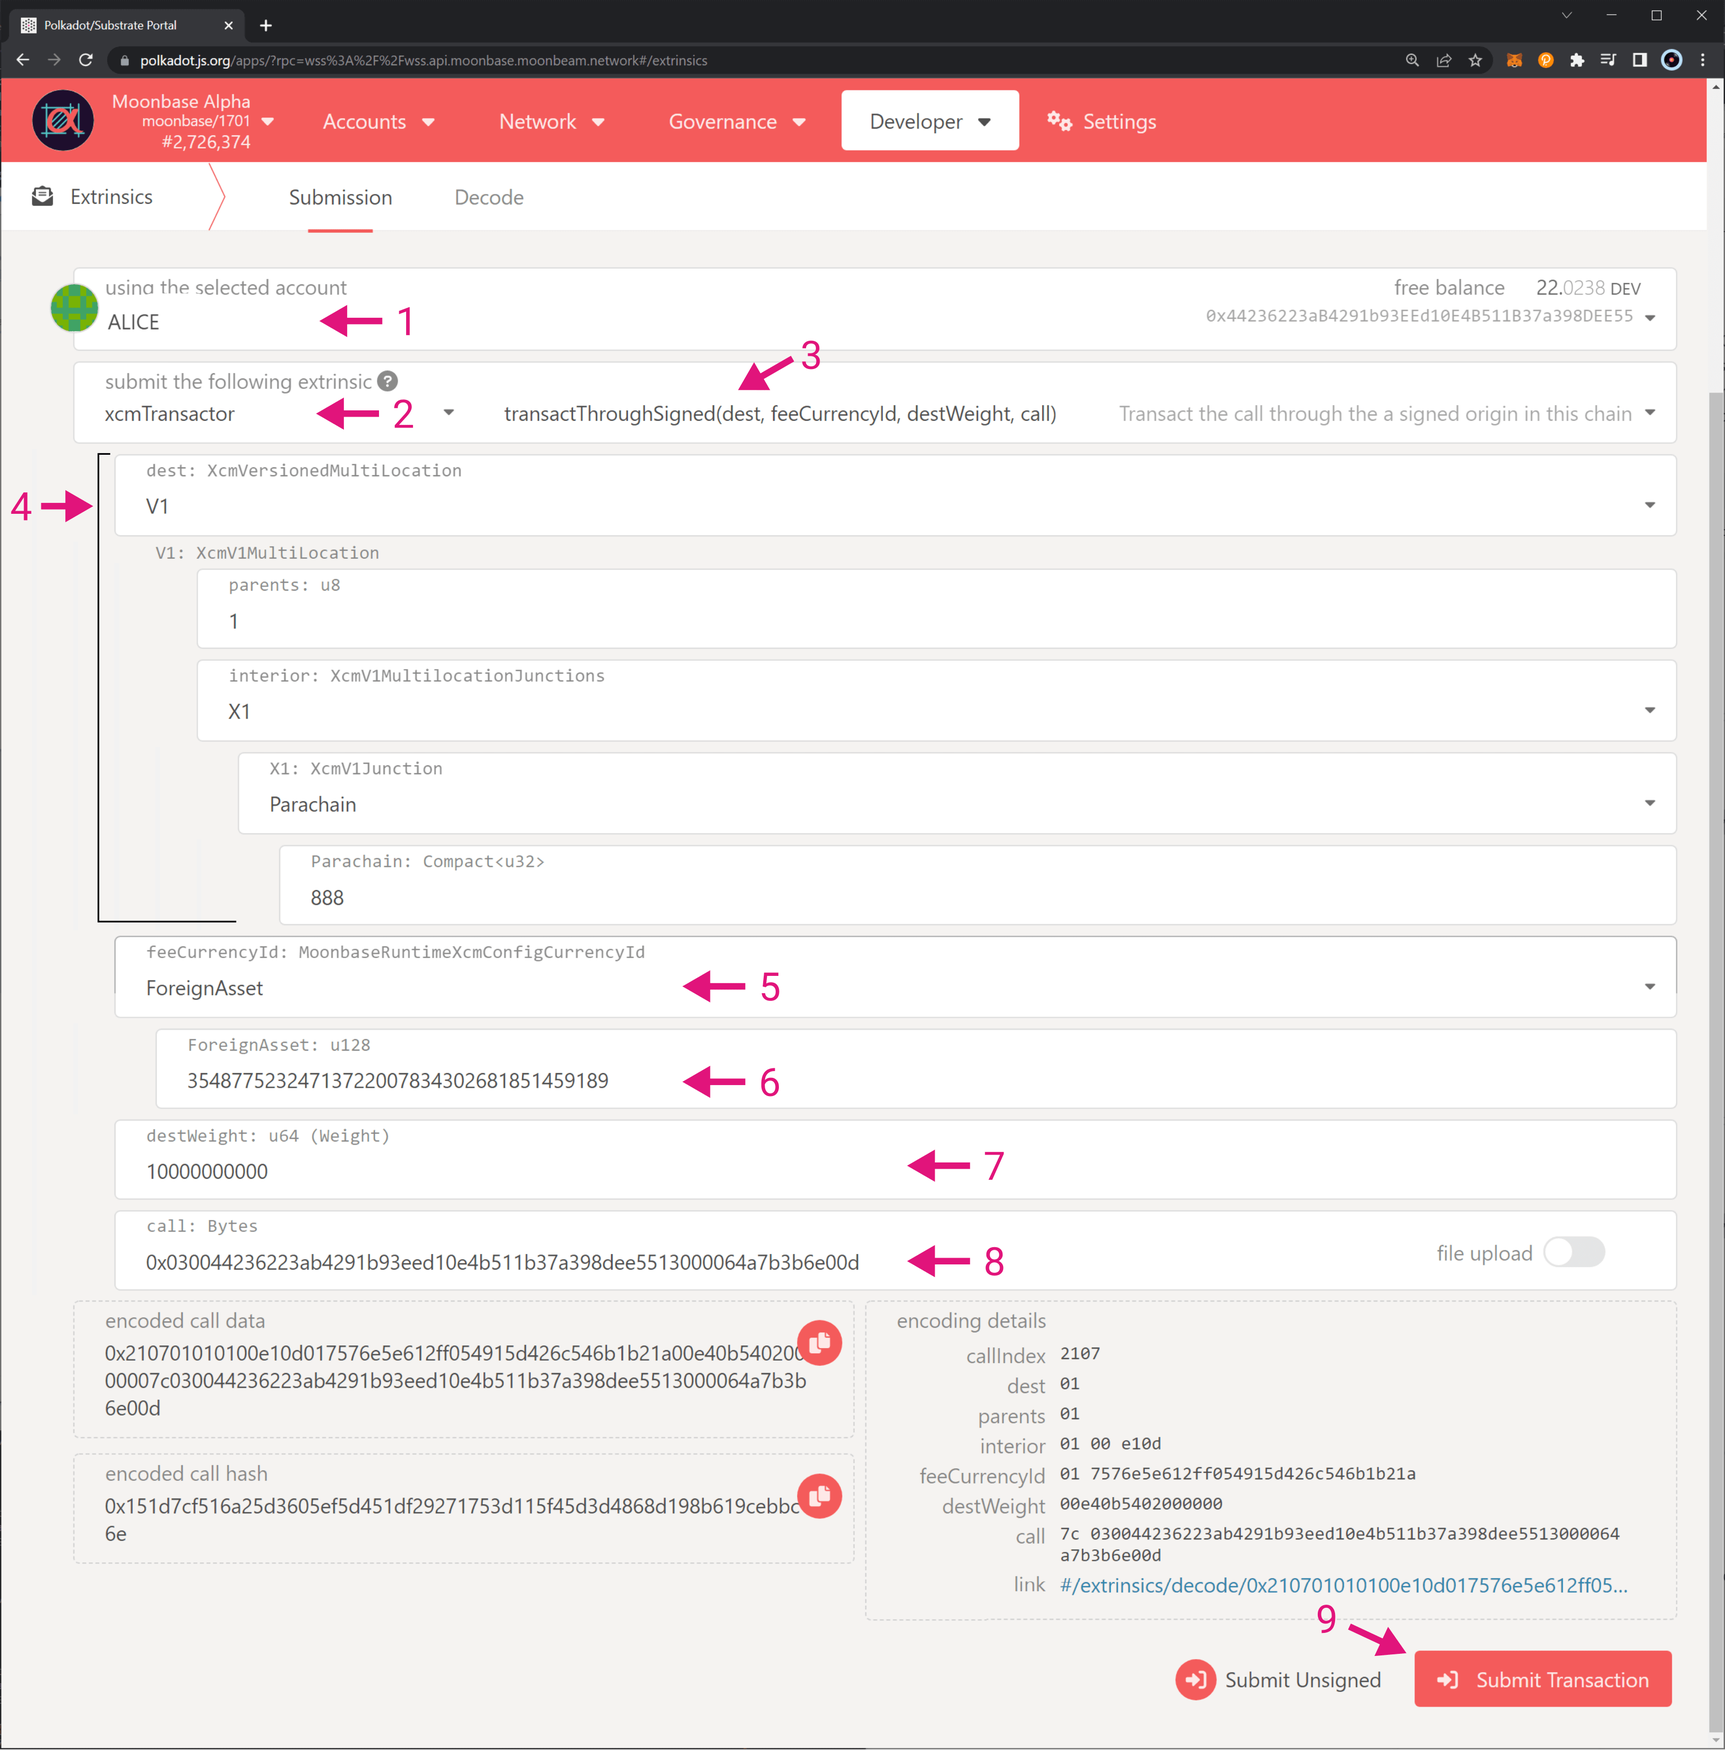
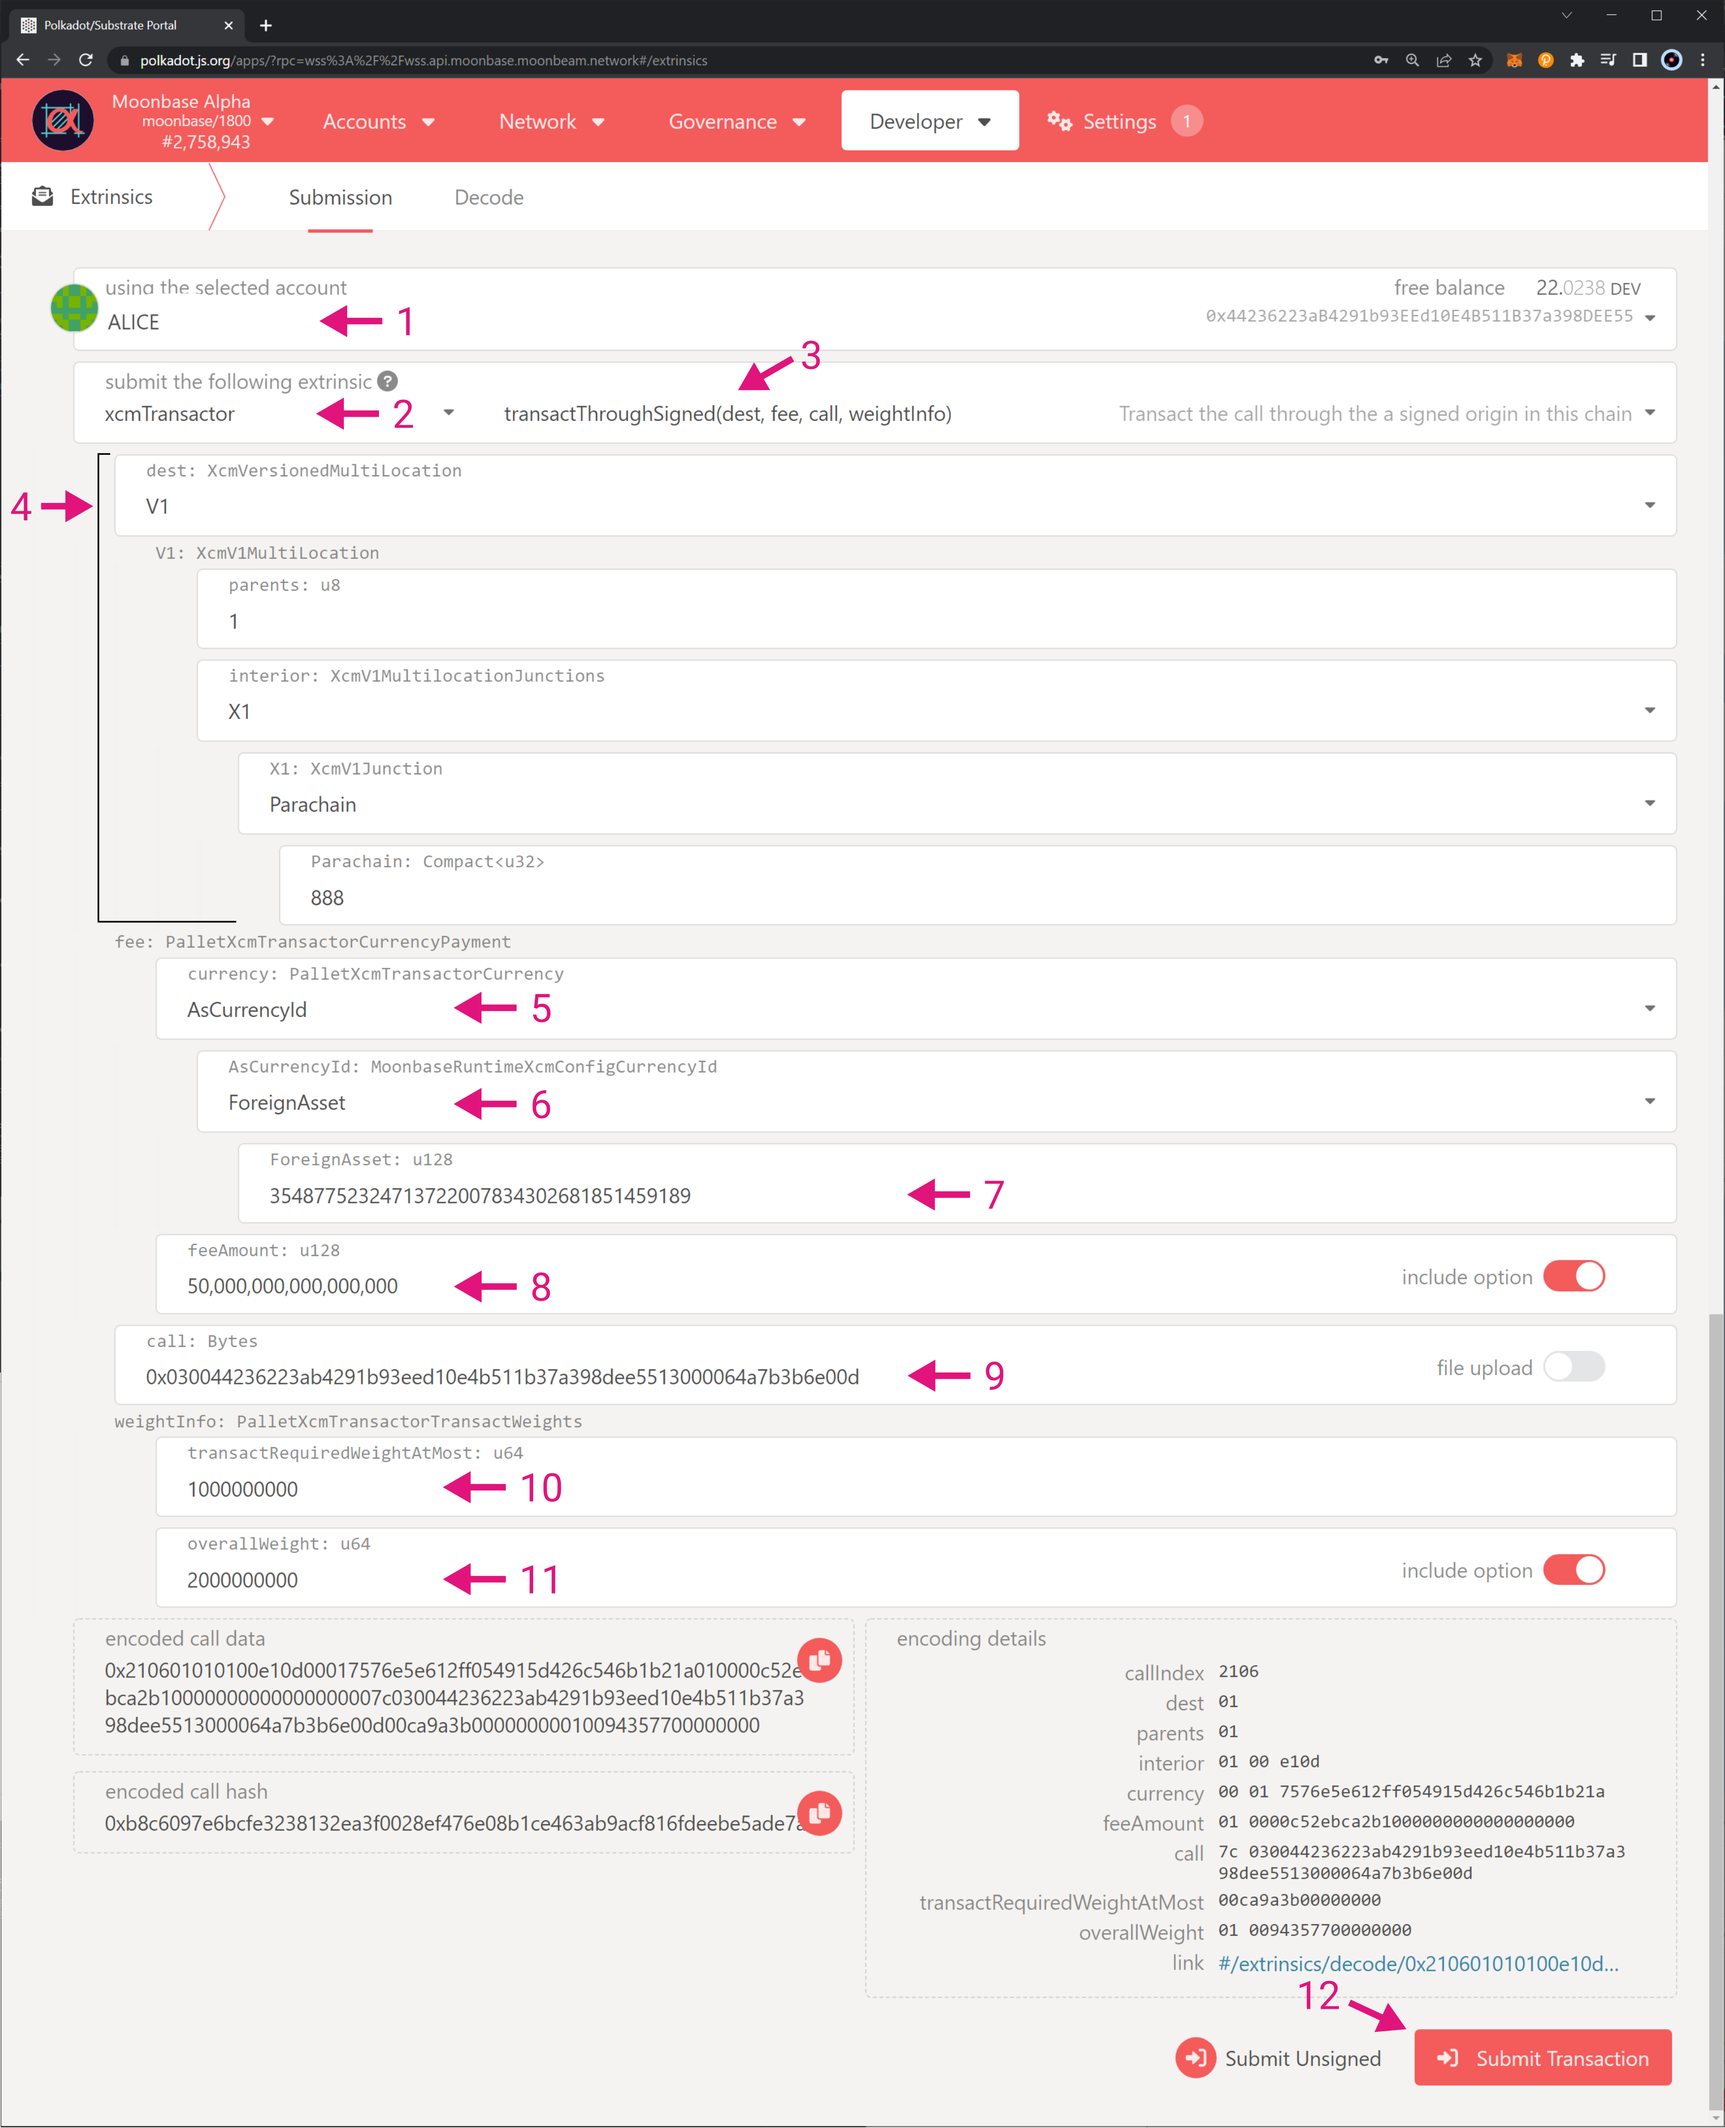
wrapped up extrinsics

diff --git a/builders/xcm/xcm-transactor.md b/builders/xcm/xcm-transactor.md
@@ -96,7 +96,7 @@ The XCM-transactor pallet includes the following read-only functions to obtain p
 
 ## XCM-Transactor Transact Through Derivative {: #xcmtransactor-transact-through-derivative}
 
-This section covers building an XCM message for remote executions using the XCM-transactor pallet, specifically with the `transactThroughDerivative` function. The steps to use the `transactThroughDerivativeMultilocation` function are identical, but instead of the currency ID, you specify a multilocation for the fee token.
+This section covers building an XCM message for remote executions using the XCM-transactor pallet using the `transactThroughDerivative` function.
 
 !!! note
     You need to ensure that the call you are going to execute remotely is allowed in the destination chain!
@@ -132,18 +132,25 @@ If you've [checked the prerequisites](#xcmtransactor-derivative-check-prerequisi
 3. Choose the **transactThroughDerivative** extrinsic
 4. Set the destination to **Relay**, to target the relay chain
 5. Enter the index of the derivative account you've been registered to. For this example, the index value is `42`. Remember that the derivate account depends on the index
-6. Set the currency ID to **ForeignAsset**. This is because you are not transferring DEV tokens (*SelfReserve*)
-7. Enter the asset ID. For this example, `xcUNIT` has an asset id of `42259045809535163221576417993425387648`. You can check all available assets IDs in the [XC-20 address section](/builders/xcm/xc20/overview/#current-xc20-assets){target=_blank} 
-8. Set the destination weight. The value must include the `asDerivative` extrinsic as well. However, the weight of the XCM instructions is added by the XCM-transactor pallet. For this example, `1000000000` is enough
[1 lines of base64/hex data omitted]
-10. Click the **Submit Transaction** button and sign the transaction
+6. Select the **fee** type. For this example, set it to **AsCurrencyId**
+7. Select **ForeignAsset** as the currency ID. This is because you are not transferring DEV tokens (*SelfReserve*), but interacting with an XC-20
+8. Enter the asset ID. For this example, `xcUNIT` has an asset id of `42259045809535163221576417993425387648`. You can check all available assets IDs in the [XC-20 address section](/builders/xcm/xc20/overview/#current-xc20-assets){target=_blank}
+9. (Optional) Set the **feeAmount**. This is the units per second, of the selected fee token (XC-20), that will be burned to free up the corresponding balance in the sovereign account on the destination chain. For this example, it was set to `13764626000000` units per second. If you do not provide this value, the pallet will use the element in storage (if exists)
[1 lines of base64/hex data omitted]
+11. Set the **transactRequiredWeightAtMost** weight value of the **weightInfo** struct. The value must include the `asDerivative` extrinsic as well. However, this does not include the weight of the XCM instructions. For this example, `1000000000` weight units are enough
+12. (Optional) Set the **overallWeight** weight value of the **weightInfo** struct. The value must be the total of **transactRequiredWeightAtMost** plus the weight needed to cover the XCM instructions execution costs in the destination chain. If you do not provide this value, the pallet will use the element in storage (if exists), and add it to **transactRequiredWeightAtMost**. For this example, `2000000000` weight units are enough
+13. Click the **Submit Transaction** button and sign the transaction
 
 !!! note
[1 lines of base64/hex data omitted]
+    The encoded call data for the extrinsic configured above is 
[1 lines of base64/hex data omitted]
 
 ![XCM-Transactor Transact Through Derivative Extrinsic](/images/builders/xcm/xcm-transactor/xcmtransactor-1.png)
 
-Once the transaction is processed, you can check the relevant extrinsics and events in [Moonbase Alpha](https://polkadot.js.org/apps/?rpc=wss%3A%2F%2Fwss.api.moonbase.moonbeam.network#/explorer/query/0x14cebfb2b4a4c0bf72cb2562344e6803263f45491d2ab14e7b91115ebd52e706){target=_blank} and the [relay chain](https://polkadot.js.org/apps/?rpc=wss%3A%2F%2Ffrag-moonbase-relay-rpc-ws.g.moonbase.moonbeam.network#/explorer/query/0x630456e6578d5b414db2e83486a6961ff90dc06bf979988b370dcb0e57550e41){target=_blank}. Note that, in Moonbase Alpha, there is an event associated with the `transactThroughDerivative` method, but also some `xcUNIT` tokens are burned to repay the sovereign account for the transactions fees. In the relay chain, the `paraInherent.enter` extrinsic shows a `balance.Transfer` event, where 1 `UNIT` token is transferred to Alice's address. Still, the transaction fees are paid by the Moonbase Alpha sovereign account.
+Once the transaction is processed, you can check the relevant extrinsics and events in [Moonbase Alpha](https://polkadot.js.org/apps/?rpc=wss%3A%2F%2Fwss.api.moonbase.moonbeam.network#/explorer/query/0xa90b23a54f2bb691ba2f04ae3228b1de2d2e7231b98490bf6f94e491baf09185){target=_blank} and the [relay chain](https://polkadot.js.org/apps/?rpc=wss%3A%2F%2Ffrag-moonbase-relay-rpc-ws.g.moonbase.moonbeam.network#/explorer/query/0xb5a0ecc0c2f7f1363ede2e3aebab2702dd2e7b9036a6ba23a694db2b4002cd7f){target=_blank}. Note that, in Moonbase Alpha, there is an event associated with the `transactThroughDerivative` method, but also some `xcUNIT` tokens are burned to repay the sovereign account for the transactions fees. In the relay chain, the `paraInherent.enter` extrinsic shows a `balance.Transfer` event, where 1 `UNIT` token is transferred to Alice's address. Still, the transaction fees are paid by the Moonbase Alpha sovereign account.
+
+!!! note
+    The `AssetsTrapped` event on the relay chain is because the XCM-transactor pallet does not handle refunds yet. Therefore, overestimating weight will result in assets being trapped when the XCM is executed in the destination chain.
 
 ### Retrieve Registered Derivative Indexes
 
@@ -160,7 +167,7 @@ To fetch a list of all registered addresses allowed to operate through the Moonb
 
 ## XCM-Transactor Transact Through Signed {: #xcmtransactor-transact-through-signed}
 
-This section covers building an XCM message for remote executions using the XCM-transactor pallet, specifically with the `transactThroughSigned` function. The steps to use the `transactThroughSignedMultilocation` function are identical, but instead of the currency ID, you specify a multilocation for the fee token. However, you'll not be able to follow along as the destination parachain is not publicly available.
+This section covers building an XCM message for remote executions using the XCM-transactor pallet, specifically with the `transactThroughSigned` function. However, you'll not be able to follow along as the destination parachain is not publicly available.
 
 !!! note
     You need to ensure that the call you are going to execute remotely is allowed in the destination chain!
@@ -194,14 +201,17 @@ If you've [checked the prerequisites](#xcmtransactor-signed-check-prerequisites)
     |    X1     |  Parachain  |
     | Parachain | ParachainID |
 
-5. Set the fee currency ID to **ForeignAsset**. Note that this is the token that will be withdrawn from the multilocation-derivative account to pay for XCM execution fees. In this case, the native reserve token of the destination chain is being used, but it can be any other token as long as it is accepted as XCM execution fee token
-6. Enter the asset ID. For this example, the XC-20 token has an asset id of `35487752324713722007834302681851459189`. You can check all available assets IDs in the [assets section](https://polkadot.js.org/apps/?rpc=wss%3A%2F%2Fwss.api.moonbase.moonbeam.network#/assets){target=_blank} of Polkadot.js Apps
-7. Set the destination weight used to execute the remote call. However, the weight of the XCM instructions is added by the XCM-transactor pallet. For this example, `1000000000` is enough
[1 lines of base64/hex data omitted]
-9. Click the **Submit Transaction** button and sign the transaction
+5. Select the **fee** type. For this example, set it to **AsCurrencyId** 
+6. Set the currency ID to **ForeignAsset**. Note that this is the token that will be withdrawn from the multilocation-derivative account to pay for XCM execution fees. In this case, the native reserve token of the destination chain is being used, but it can be any other token as long as it is accepted as XCM execution fee token
+7. Enter the asset ID. For this example, the XC-20 token has an asset id of `35487752324713722007834302681851459189`. You can check all available assets IDs in the [assets section](https://polkadot.js.org/apps/?rpc=wss%3A%2F%2Fwss.api.moonbase.moonbeam.network#/assets){target=_blank} of Polkadot.js Apps
+8. (Optional) Set the **feeAmount**. This is the units per second, of the selected fee token (XC-20), that will be withdrawn from the multilocation-derivative account to pay for XCM execution fees. For this example, it was set to `50000000000000000` units per second. If you do not provide this value, the pallet will use the element in storage (if exists). Note that the element in storage might not be up to date
[1 lines of base64/hex data omitted]
+10. Set the **transactRequiredWeightAtMost** weight value of the **weightInfo** struct. This does not include the weight of the XCM instructions. For this example, `1000000000` is enough
+11. (Optional) Set the **overallWeight** weight value of the **weightInfo** struct. The value must be the total of **transactRequiredWeightAtMost** plus the weight needed to cover the XCM instructions execution costs in the destination chain. If you do not provide this value, the pallet will use the element in storage (if exists), and add it to **transactRequiredWeightAtMost**. For this example, `2000000000` weight units are enough
+12. Click the **Submit Transaction** button and sign the transaction
 
 !!! note
[2 lines of base64/hex data omitted]
 
 ![XCM-Transactor Transact Through Signed Extrinsic](/images/builders/xcm/xcm-transactor/xcmtransactor-3.png)
 
